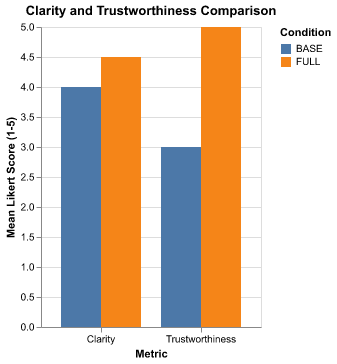
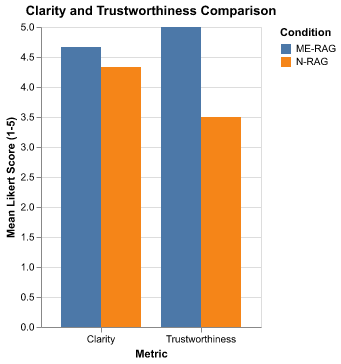
update survey results

diff --git a/evaluation/analysis.py b/evaluation/analysis.py
@@ -7,6 +7,12 @@ CONDITION_RAW = "RAW"
 CONDITION_BASE = "BASE"
 CONDITION_FULL = "FULL"
 CONDITIONS = [CONDITION_RAW, CONDITION_BASE, CONDITION_FULL]
+CONDITION_MAP = {
+    "RAW": "RAW XAI",
+    "BASE": "N-RAG",
+    "FULL": "ME-RAG",
+}
+
 
 METRIC_CONFIDENCE = "I am confident I understand the core problem."
 METRIC_ACTIONABILITY = "I have a clear idea of the potential impact on the system."
@@ -38,7 +44,7 @@ for column, question in zip(raw_df.columns, raw_df.iloc[0]):
     mapping = dict()
     for condition in CONDITIONS:
         if condition in question:
-            mapping["condition"] = condition
+            mapping["condition"] = CONDITION_MAP[condition]
             break
     for metric in METRICS:
         if metric in question:
@@ -62,6 +68,15 @@ for col_name, mapping in COLUMN_MAP.items():
                 }
             )
 df_long = pd.DataFrame(long_format_data)
+# Ensure Score is numeric for aggregation
+df_long["Score"] = pd.to_numeric(df_long["Score"], errors="coerce")
+
+# Print mean Likert scores for each (Condition, Metric) pair
+mean_scores = df_long.groupby(["Condition", "Metric"])["Score"].mean().unstack()
+print(
+    "--------------- Mean Likert Scores (1-5) by Condition and Metric ---------------"
+)
+print(mean_scores)
 
 # Define the metrics for the first chart
 metrics_chart_1 = ["Confidence", "Actionability", "Cognitive Load"]
